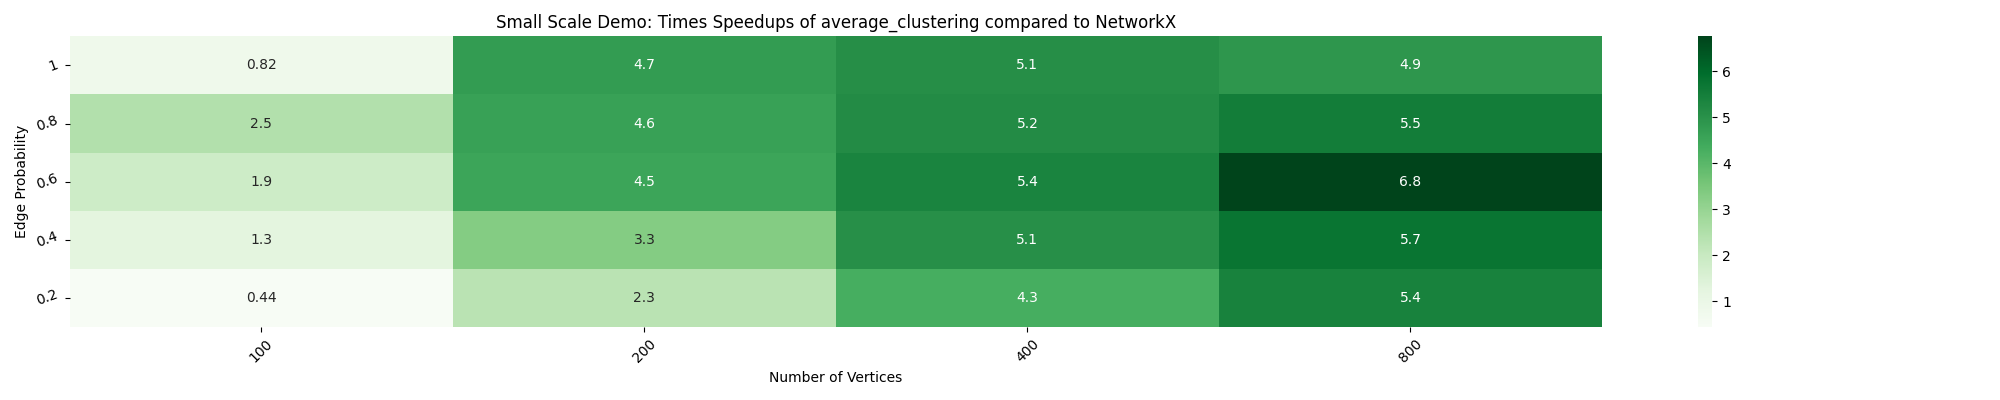
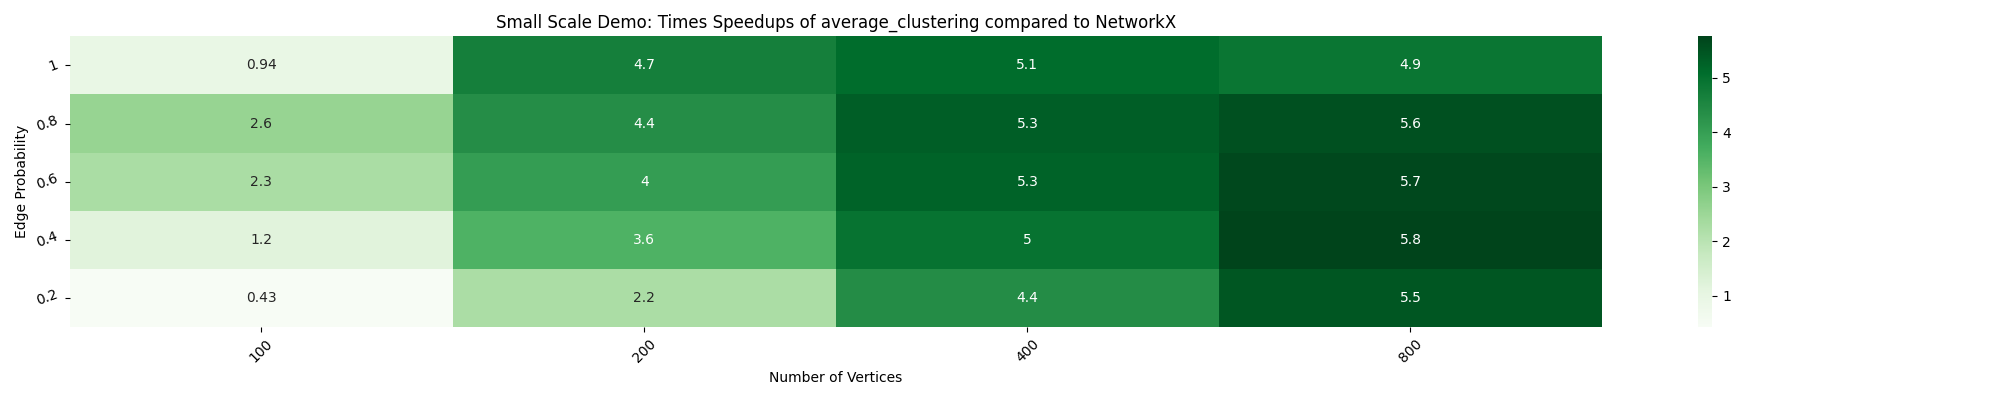
improved average_clustering implementation

diff --git a/_nx_parallel/__init__.py b/_nx_parallel/__init__.py
@@ -91,7 +91,7 @@ def get_info():
                 },
             },
             "average_clustering": {
-                "url": "https://github.com/networkx/nx-parallel/blob/main/nx_parallel/algorithms/cluster.py#L157",
+                "url": "https://github.com/networkx/nx-parallel/blob/main/nx_parallel/algorithms/cluster.py#L158",
                 "additional_docs": "The nodes are chunked into `node_chunks` and then the average clustering coefficient for all `node_chunks` is computed in parallel over `n_jobs` number of CPU cores.",
                 "additional_parameters": {
                     'get_chunks : str, function (default = "chunks")': "A function that takes in a list of all the nodes (or nbunch) as input and returns an iterable `node_chunks`. The default chunking is done by slicing the `nodes` into `n_jobs` number of chunks."
@@ -140,7 +140,7 @@ def get_info():
                 },
             },
             "clustering": {
-                "url": "https://github.com/networkx/nx-parallel/blob/main/nx_parallel/algorithms/cluster.py#L85",
+                "url": "https://github.com/networkx/nx-parallel/blob/main/nx_parallel/algorithms/cluster.py#L86",
                 "additional_docs": "The nodes are chunked into `node_chunks` and then the clustering coefficient for all `node_chunks` is computed in parallel over `n_jobs` number of CPU cores.",
                 "additional_parameters": {
                     'get_chunks : str, function (default = "chunks")': "A function that takes in a list of all the nodes (or nbunch) as input and returns an iterable `node_chunks`. The default chunking is done by slicing the `nodes` into `n_jobs` number of chunks."
@@ -224,7 +224,7 @@ def get_info():
                 },
             },
             "square_clustering": {
-                "url": "https://github.com/networkx/nx-parallel/blob/main/nx_parallel/algorithms/cluster.py#L20",
+                "url": "https://github.com/networkx/nx-parallel/blob/main/nx_parallel/algorithms/cluster.py#L21",
                 "additional_docs": "The nodes are chunked into `node_chunks` and then the square clustering coefficient for all `node_chunks` are computed in parallel over `n_jobs` number of CPU cores.",
                 "additional_parameters": {
                     'get_chunks : str, function (default = "chunks")': "A function that takes in a list of all the nodes (or nbunch) as input and returns an iterable `node_chunks`. The default chunking is done by slicing the `nodes` into `n_jobs` number of chunks."

diff --git a/nx_parallel/algorithms/cluster.py b/nx_parallel/algorithms/cluster.py
@@ -3,6 +3,7 @@ from collections import Counter
 from joblib import Parallel, delayed
 from networkx.algorithms.cluster import _triangles_and_degree_iter
 import nx_parallel as nxp
+import networkx as nx
 from networkx.algorithms.cluster import (
     _directed_weighted_triangles_and_degree_iter,
     _directed_triangles_and_degree_iter,
@@ -230,10 +231,30 @@ def average_clustering(
         `nodes` into `n_jobs` number of chunks.
     """
 
+    def _compute_chunk(chunk):
+        return nx.clustering(G, chunk, weight=weight)
+
     if hasattr(G, "graph_object"):
         G = G.graph_object
 
-    c = clustering(G, nodes, weight=weight).values()
+    n_jobs = nxp.get_n_jobs()
+
+    if nodes is None:
+        nodes = list(G)
+
+    if get_chunks == "chunks":
+        node_chunks = nxp.chunks(nodes, n_jobs)
+    else:
+        node_chunks = get_chunks(nodes)
+
+    results = Parallel()(delayed(_compute_chunk)(chunk) for chunk in node_chunks)
+
+    clustering = {}
+    for result in results:
+        clustering.update(result)
+
+    c = clustering.values()
+
     if not count_zeros:
         c = [v for v in c if abs(v) > 0]
 
